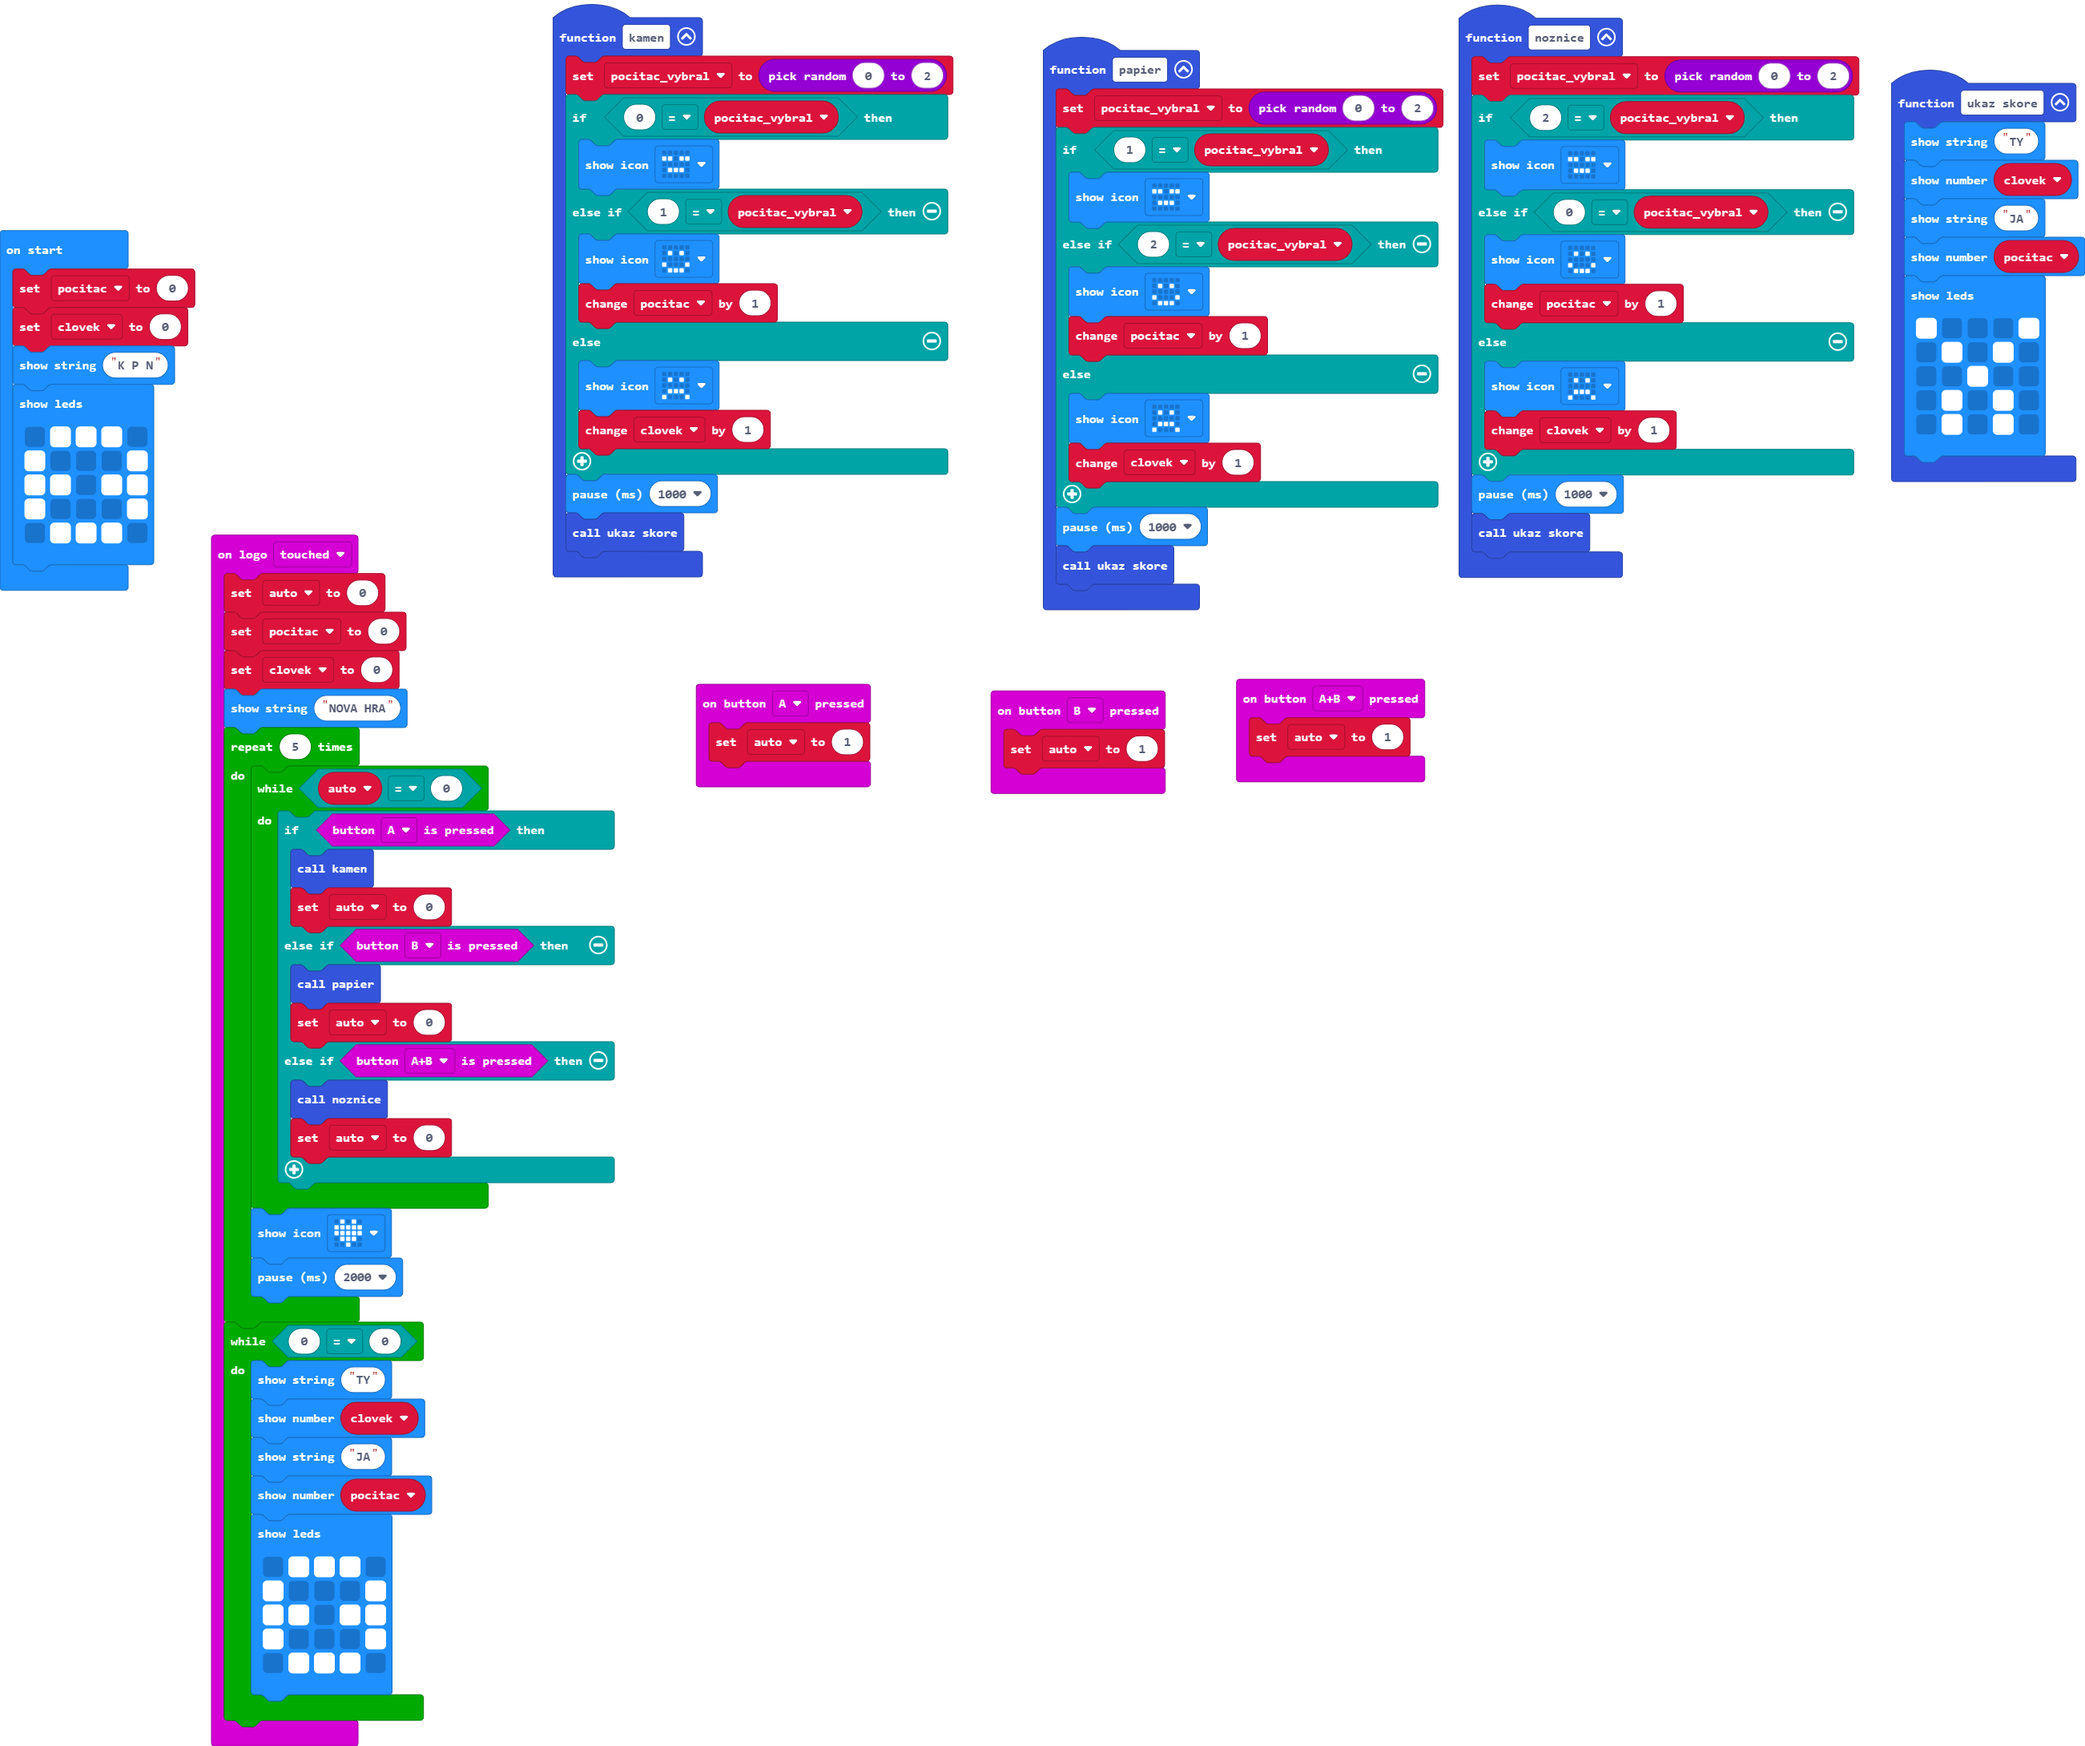
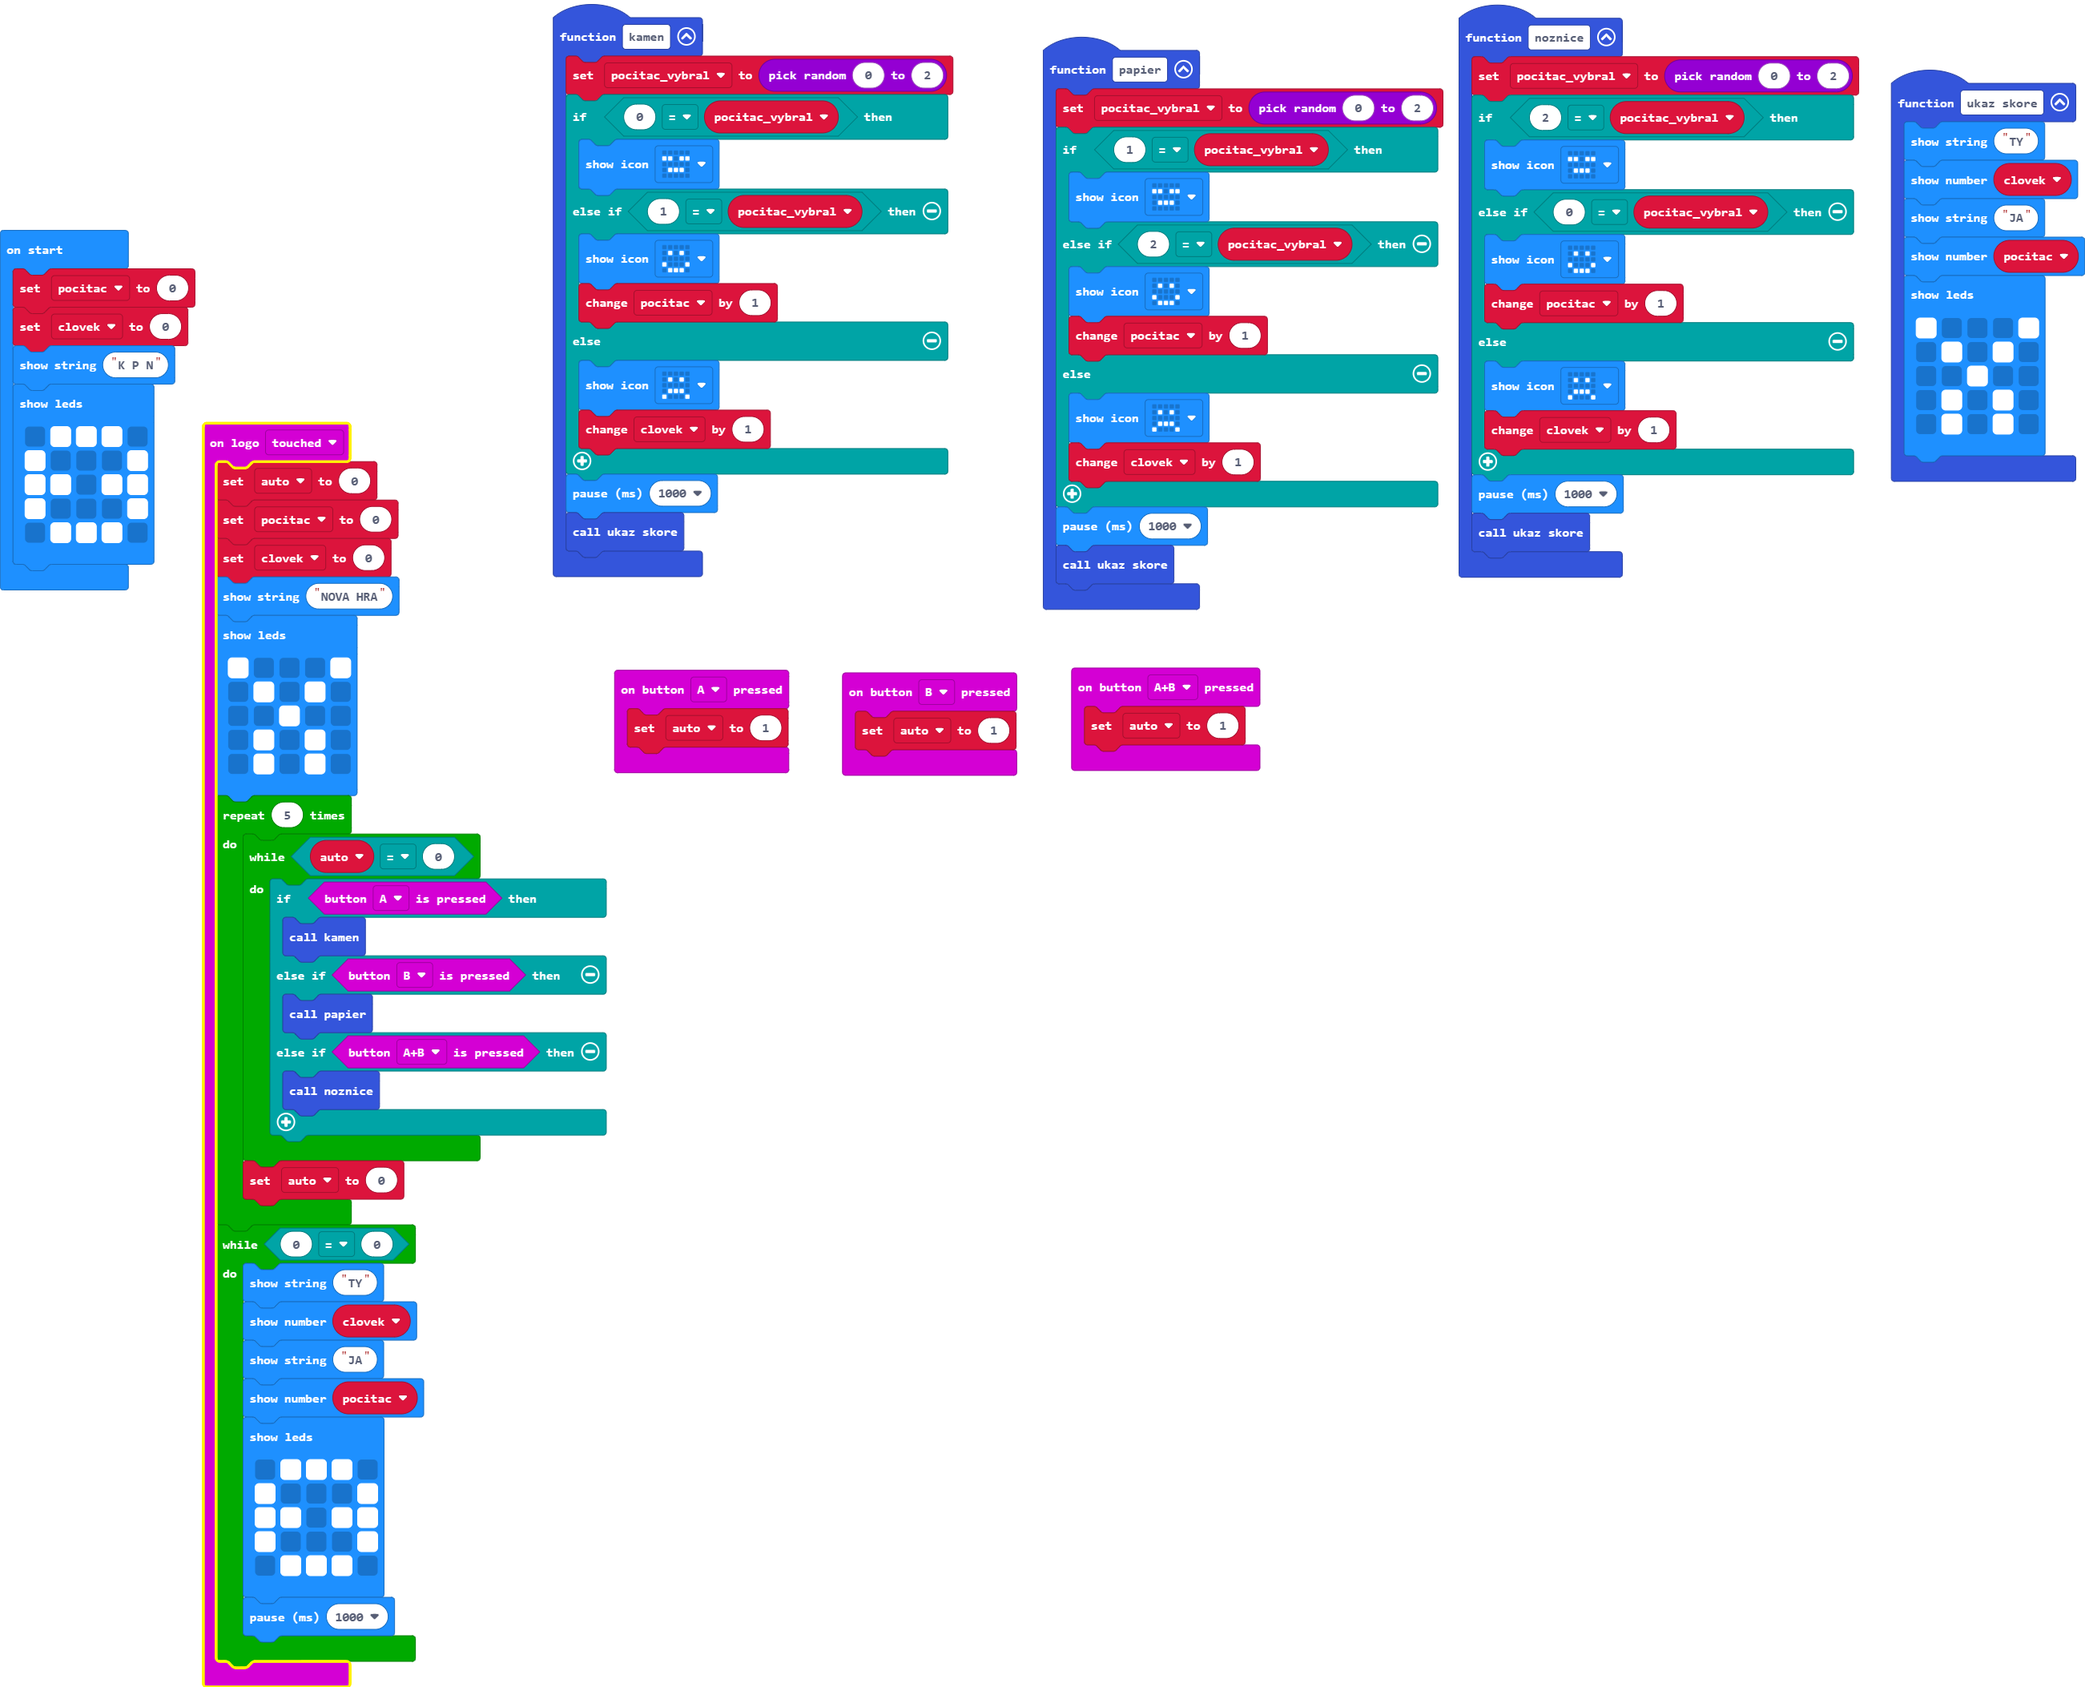
Update main.blocks, main.ts

Changed region(s): [[0.0, 0.0, 1.0, 1.0], [0.2489, 0.0, 0.4668, 0.3395]]

diff --git a/main.ts b/main.ts
@@ -54,21 +54,24 @@ input.onLogoEvent(TouchButtonEvent.Touched, function () {
     pocitac = 0
     clovek = 0
     basic.showString("NOVA HRA")
+    basic.showLeds(`
+        # . . . #
+        . # . # .
+        . . # . .
+        . # . # .
+        . # . # .
+        `)
     for (let index = 0; index < 5; index++) {
         while (auto == 0) {
             if (input.buttonIsPressed(Button.A)) {
                 kamen()
-                auto = 0
             } else if (input.buttonIsPressed(Button.B)) {
                 papier()
-                auto = 0
             } else if (input.buttonIsPressed(Button.AB)) {
                 noznice()
-                auto = 0
             }
         }
-        basic.showIcon(IconNames.Heart)
-        basic.pause(2000)
+        auto = 0
     }
     while (0 == 0) {
         basic.showString("TY")
@@ -82,6 +85,7 @@ input.onLogoEvent(TouchButtonEvent.Touched, function () {
             # . . . #
             . # # # .
             `)
+        basic.pause(1000)
     }
 })
 function ukaz_skore () {
